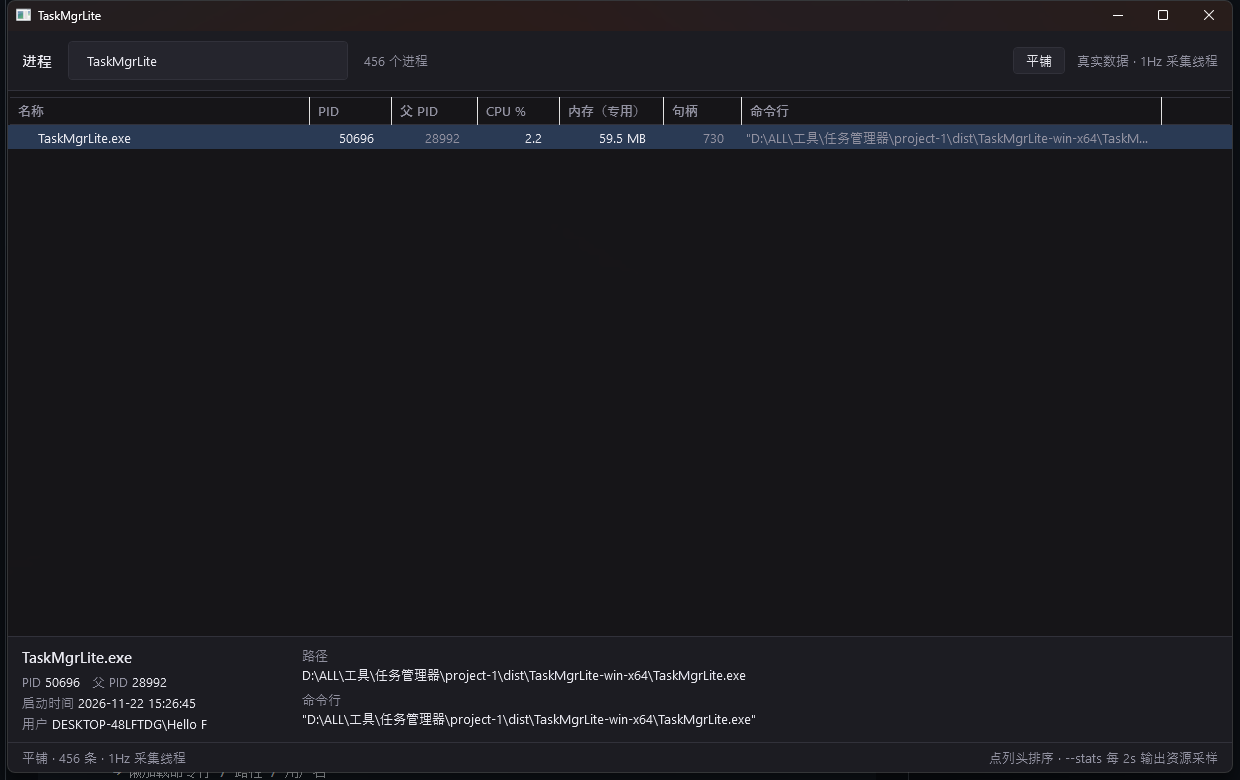
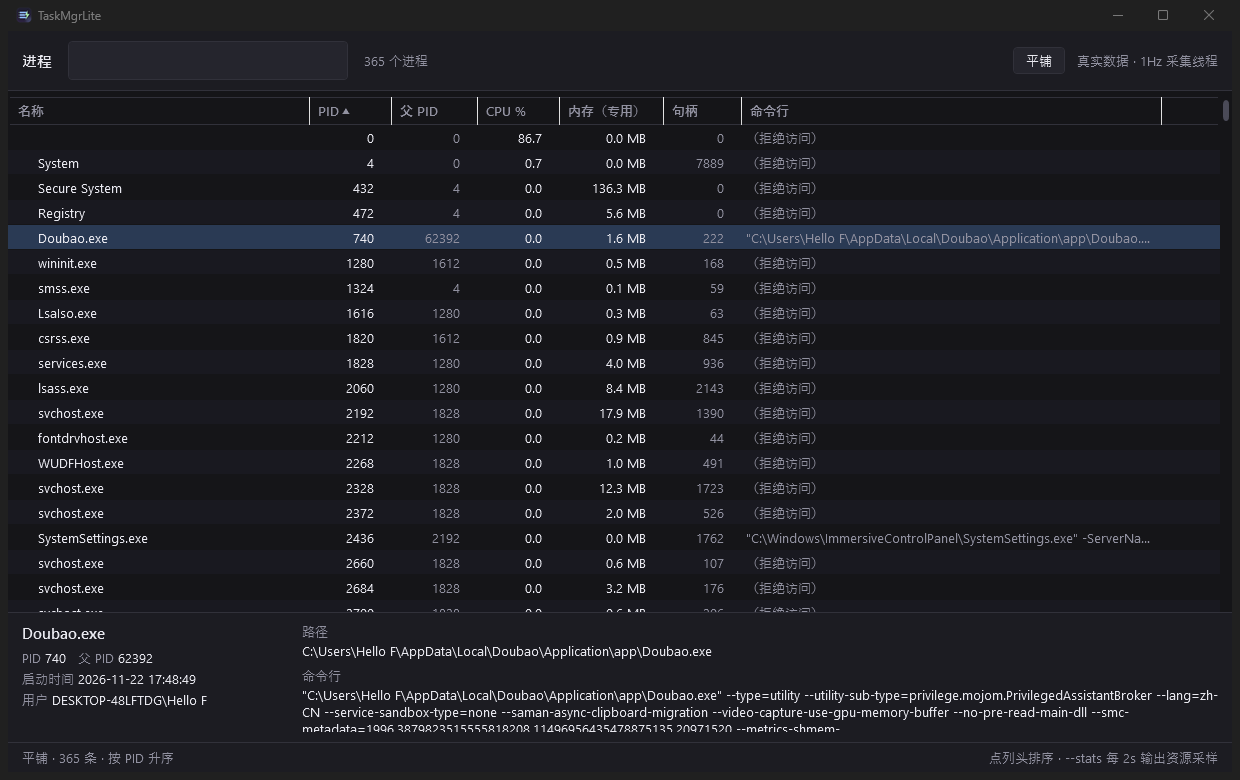
docs: 按 0.1.01 重测性能并更新截图
- 启动 10 次中位 813ms；125 秒长跑专用工作集 max 69.1MB
- README 功能/使用/限制数字同步 0.1.01
- 截图更新为当前 UI（PID ▲、选中 Doubao、详情面板可读）
- CHANGELOG/design-round5 更新最终包 SHA256 7B9A...

diff --git a/README.md b/README.md
@@ -2,6 +2,8 @@
 
 [![CI](https://github.com/jf200s/TaskMgrLite/actions/workflows/ci.yml/badge.svg)](https://github.com/jf200s/TaskMgrLite/actions/workflows/ci.yml)
 
+> 当前版本 **0.1.01** · [Release](https://github.com/jf200s/TaskMgrLite/releases/tag/v0.1.01) · [Changelog](CHANGELOG.md)
+
 一个为“更快到达”而做的 Windows 任务管理器替代品。不是信息更多，而是启动更快、操作路径更短、底层解析更干净。
 
 ![TaskMgrLite](docs/screenshot.png)
@@ -9,8 +11,8 @@
 ## 硬核特性
 
 - **原生解析，不走 WMI / PerformanceCounter**：一次 `NtQuerySystemInformation(SystemProcessInformation)` 拿全量进程，unsafe 偏移直读，零分配解析。
-- **极速启动**：自包含 ReadyToRun 发布，不压缩单文件；本机 10 次实测中位 **807.5ms**。
-- **极低分配**：1Hz 采集稳态 `[enum]` 分配多数为 0，125 秒长跑统计均值 **0.10MB/s**；新进程名称/状态增长时单次峰值约 71KB。
+- **极速启动**：自包含 ReadyToRun 发布，不压缩单文件；0.1.01 本机 10 次实测中位 **813ms**。
+- **极低分配**：1Hz 采集稳态 `[enum]` 分配多数为 0，0.1.01 的 125 秒长跑统计均值 **0.14MB/s**；新进程名称/状态增长时单次峰值约 62KB。
 - **300+ 进程可用**：树形结构在采集侧建 parent→children 索引，UI 侧 O(n) 展平为可见行，交给 ListView 虚拟化。
 - **不可变快照 + 原子交换**：采集线程只生产不可变数组，UI 无锁读取；UI 忙时覆盖式丢弃旧快照，不排队。
 - **命令行懒加载**：只在行进入可视区或选中时走 `OpenProcess + NtQueryInformationProcess(60)`，LRU 512；`AccessDenied` / `Error` 失败缓存 30 秒后自动重试。
@@ -32,7 +34,7 @@
 
 ## 快速开始
 
-从 Release 包解压后直接运行：
+从 [GitHub Releases](https://github.com/jf200s/TaskMgrLite/releases/latest) 下载并解压后直接运行：
 
 ```powershell
 TaskMgrLite.exe
@@ -81,22 +83,22 @@ D:\path\to\TaskMgrLite.exe
 - **结束进程结果**：右下角非阻塞 Toast；失败可点“详情”，拒绝访问时出现“提权重启”。Toast 8 秒自动隐藏。
 - **权限不足**：Toast 里的“提权重启”会用 `runas` 重启，并恢复搜索词、折叠集合、视图模式和列排序；也可以直接右键 exe 选择“以管理员身份运行”。
 
-## 性能基线（本机实测）
+## 性能基线（0.1.01 本机实测）
 
-Windows 11 / .NET 11.0.100：
+Windows 11 / .NET 11.0.100，2026-11-22：
 
-- 启动 10 次：841 / 843 / 813 / 777 / 811 / 766 / 776 / 804 / 822 / 770ms，中位 **807.5ms**。
+- 启动 10 次：822 / 845 / 811 / 793 / 815 / 790 / 825 / 815 / 796 / 797ms，中位 **813ms**（min 790 / max 845）。
   - 未达到 800ms 的内部目标；原锁定口径 <1500ms 通过。
-- 125 秒真实长跑（440 个进程，未选中详情）：
-  - 专用工作集：min 60.9 / mean 64.8 / max **70.8MB**（<80MB）
-  - 工作集 max 165.5MB；私有提交 max 105.6MB
+- 125 秒真实长跑（约 360–400 个进程，未选中详情）：
+  - 专用工作集：min 47.9 / mean 62.3 / max **69.1MB**（<80MB）
+  - 工作集 max 164.7MB；私有提交 max 101.8MB
   - GC：Gen0=2，Gen1=1，Gen2=0
-  - 句柄：669–699
-  - 托管堆：6.4–18.3MB
-  - 统计分配：mean 0.10MB/s，max 1.75MB/s
-  - `[enum]` 126 次：mean 0.6KB/次，max 71KB/次，min 0
+  - 句柄：737–751
+  - 托管堆：5.8–20.3MB
+  - 统计分配：mean 0.14MB/s，max 1.63MB/s
+  - `[enum]` 155 次：mean 0.4KB/次，max 62KB/次，min 0
 
-这些数字是实际采样结果，不把“日志前的 0KB”当作整轮零分配。Gen2=0、125 秒内未破 80MB，目前按无泄漏处理。
+进程数比 Round 4 基线少（约 360–400 vs 440），内存数字不宜直接横向比较。这些数字是 0.1.01 发布包的实际采样结果，不把“日志前的 0KB”当作整轮零分配。Gen2=0、125 秒内未破 80MB，目前按无泄漏处理。
 
 ## 架构一句话
 
@@ -139,7 +141,7 @@ NtQuerySystemInformation(class 5) → 零分配 unsafe 解析
 - 二进制未签名，首次运行可能触发 Windows SmartScreen。
 - Mica/圆角只在 Windows 11 生效；Windows 10 自动回退纯暗色。
 - 受保护进程（PPL/系统进程）即使提权也可能无法读取路径或结束。
-- 800ms 启动目标未达成，当前接受 807.5ms；不为了 7.5ms 引入复杂懒加载。
+- 800ms 启动目标未达成，当前 0.1.01 中位 813ms；不为了 13ms 引入复杂懒加载。
 - 树杀只覆盖点击时快照；点击后新出生的后代需要下一轮手动处理。
 - 列排序不是实时排序：内存/CPU 每秒变化后，需要重新点列头或切换模式才会重排；列头箭头只表示当前排序条件。
 

diff --git a/design-round5.md b/design-round5.md
@@ -396,8 +396,9 @@ Equal(2, loaded.Value.Collapsed.Length, "collapsed");
 ### 0.1.01 发布产物
 
 - 包：`dist\TaskMgrLite-win-x64-0.1.01.zip`，59.9MB（260 files / 137.8MB unpacked）。
[1 lines of base64/hex data omitted]
-- exe 文件版本：`0.1.01.0`；`VERSION.txt`：`TaskMgrLite 0.1.01`；ProductVersion `0.1.01+e620f0b`。
-- UI 回归（树形/平铺选中、右键菜单 4/4）在 0.2.0 同代码构建上通过；版本改为 0.1.01 后用 `release.ps1 -Version 0.1.01` 重建最终包，selftest 65/0 + diag 全绿，代码未变。
[1 lines of base64/hex data omitted]
+- exe 文件版本：`0.1.01.0`；`VERSION.txt`：`TaskMgrLite 0.1.01`；ProductVersion `0.1.01+2229d41`。
+- UI 回归（树形/平铺选中、右键菜单 4/4）在 0.2.0 同代码构建上通过；最终 0.1.01 包在 README 性能基线/截图更新后重建，selftest 65/0 + diag 全绿，代码未变。
+- README 性能基线按 0.1.01 重测：启动 10 次中位 813ms；125 秒长跑专用工作集 max 69.1MB；截图更新为当前 UI（排序箭头 + 详情面板）。
 - tag `v0.1.01` 指向 `e620f0b`；`dist/` 已清理旧的 0.1.0、0.2.0、20261122 包。
 - 包内无 PDB / XML / log；README、LICENSE、docs、.NET `LICENSE.txt`、`ThirdPartyNotices.txt` 齐全。

diff --git a/CHANGELOG.md b/CHANGELOG.md
@@ -22,8 +22,9 @@
 - `--selftest`：65 passed, 0 failed。
 - `--diag-round3` / `--diag-round4`：通过。
 - UIA：排序往返、提权恢复排序、排序箭头、折叠后切平铺选中、右键菜单 4/4。
+- 0.1.01 性能重测：启动 10 次中位 813ms；125 秒长跑专用工作集 max 69.1MB。
 
 ### 发布
 
 - 包：`TaskMgrLite-win-x64-0.1.01.zip`（59.9MB，260 files / 137.8MB unpacked）。
[2 lines of base64/hex data omitted]
